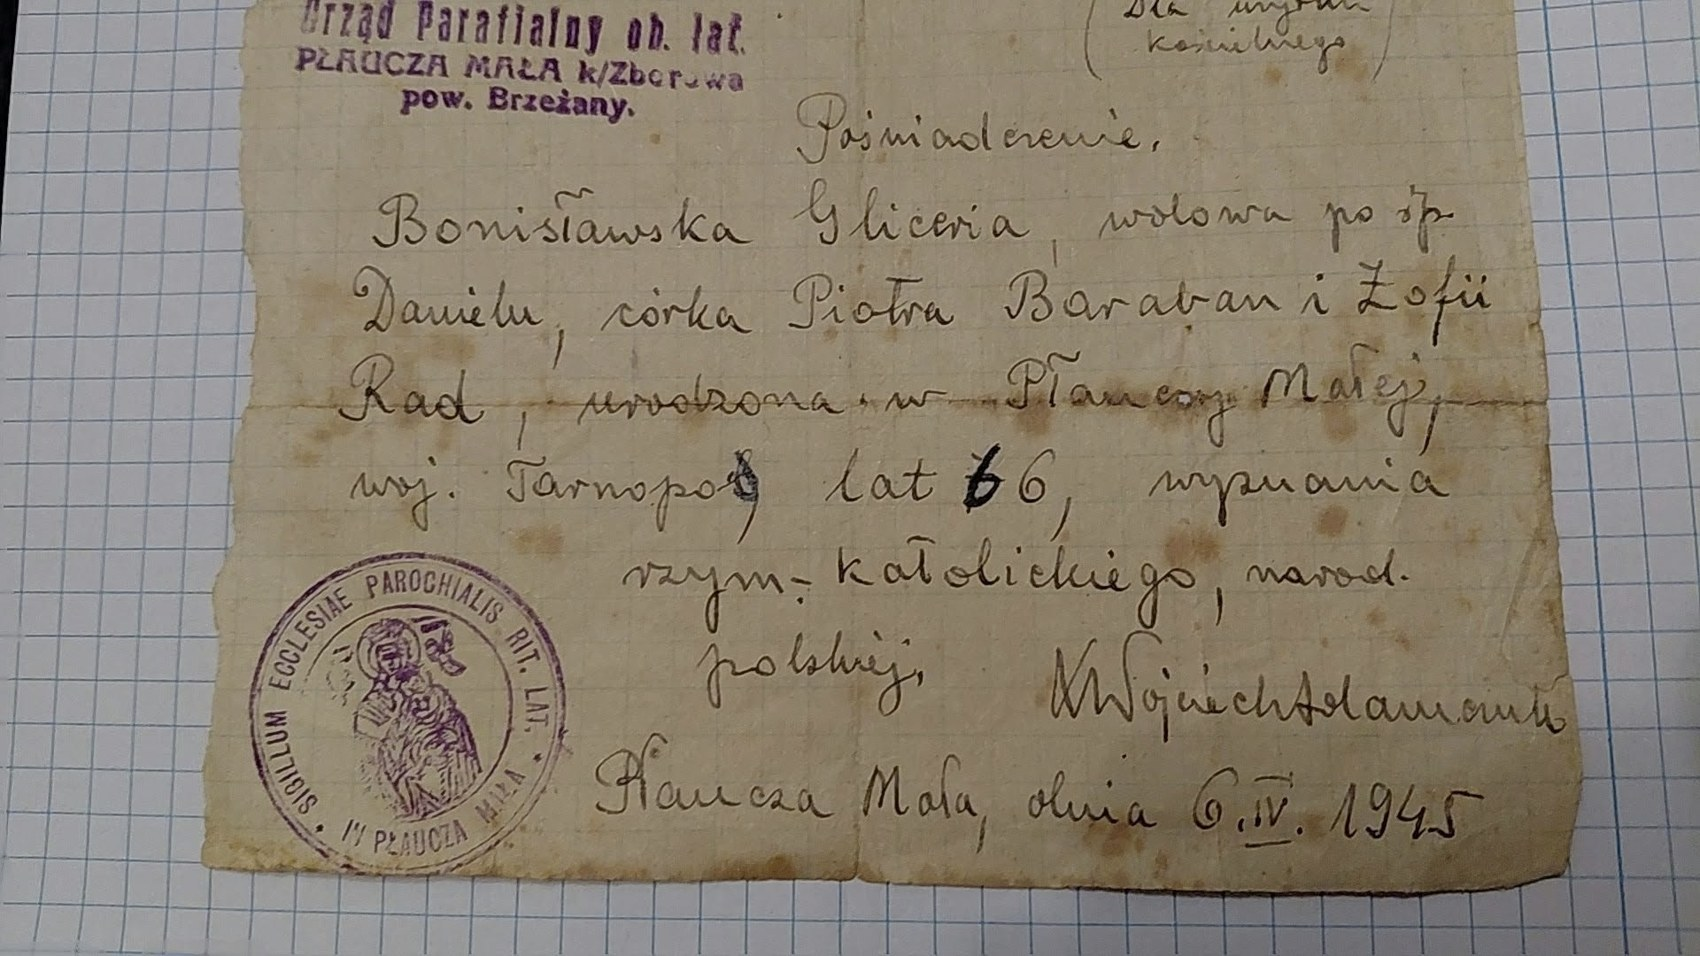
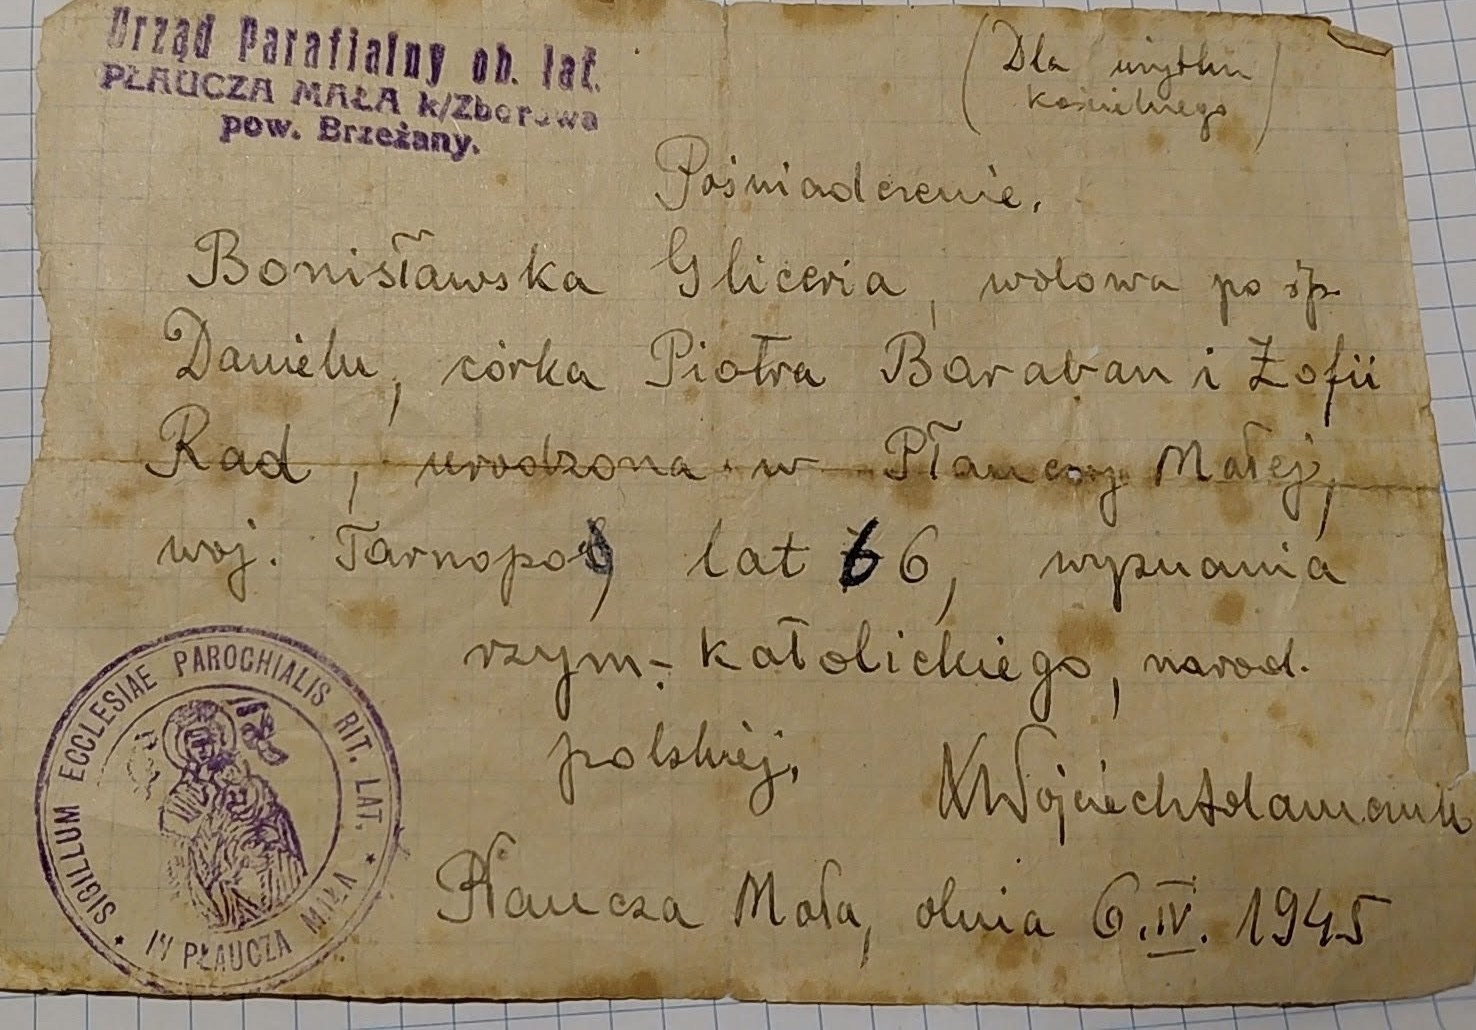
Agnieszka i Michał: nowy skan poświadczenia, podpisy koloryzacji
Claude-Session: https://claude.ai/code/session_01MVSwCffncwZpnsp3xC5Tny

diff --git a/agnieszka-i-michal.html b/agnieszka-i-michal.html
@@ -7,8 +7,8 @@
     <h1>Agnieszka i Michał</h1>
     
   </header>
-  <section class="pair" aria-label="Agnieszka i Michał"><article class="person"><figure><button class="zoom" type="button" data-cap="Agnieszka Bonisławska" data-src="Zbiory rodzinne" aria-label="Powiększ zdjęcie: Agnieszka Bonisławska"><div class="portrait"><img src="zdjecia/agnieszka-bonislawska-portret.jpg" alt="Agnieszka Bonisławska"></div></button><figcaption><strong>Agnieszka Bonisławska</strong><span>1923–2017</span></figcaption></figure><dl class="facts"><dt>Urodzona</dt><dd><span class="sym">*</span>22.01.1923, Płaucza Mała</dd><dt>Zmarła</dt><dd><span class="sym">†</span>3.07.2017, Wierzbica Górna</dd><dt>Ślub</dt><dd>Michał Bonisławski</dd><dt>Wiek</dt><dd>94 lata</dd><dt>Ojciec</dt><dd><a href="eustachy-i-maria.html">Eustachy Bonisławski</a></dd><dt>Matka</dt><dd><a href="eustachy-i-maria.html">Maria z d. Murzyńska</a></dd></dl></article><article class="person"><figure class="noportrait"><figcaption><strong>Michał Bonisławski</strong><span>1912–1998</span></figcaption></figure><dl class="facts"><dt>Urodzony</dt><dd><span class="sym">*</span>17.09.1912, Płaucza Mała</dd><dt>Zmarł</dt><dd><span class="sym">†</span>28.08.1998, Wierzbica Górna</dd><dt>Ślub</dt><dd>Agnieszka Bonisławska</dd><dt>Wiek</dt><dd>85 lat</dd><dt>Ojciec</dt><dd>Daniel Bonisławski</dd><dt>Matka</dt><dd>Gliceria z d. Baraban</dd></dl><p class="factnote">Michał nosił to samo nazwisko co żona, ale pochodził z innej linii przodków.</p></article></section>
-  <section class="chapter"><h2>Agnieszka i Michał</h2><article class="story"><h3>Rodzina</h3><p>Agnieszka i Michał Bonisławscy urodzili się w Płauczy Małej, a zmarli w Wierzbicy Górnej. Agnieszka żyła 94 lata, a Michał 85. Nie mieli dzieci.</p><figure class="inline"><button class="zoom" type="button" data-cap="Agnieszka i Michał Bonisławscy." data-src="Zbiory rodzinne" aria-label="Powiększ: Agnieszka i Michał Bonisławscy."><img src="zdjecia/agnieszka-i-michal-bonislawscy.jpg" alt="Agnieszka i Michał Bonisławscy." loading="lazy" class=""></button><figcaption class="cap">Agnieszka i Michał Bonisławscy.<span class="src">Zbiory rodzinne</span></figcaption></figure></article><article class="story"><h3>Matka Michała</h3><p>Ojcem Michała był Daniel Bonisławski, a matką Gliceria z domu Baraban. Gliceria, wdowa po Danielu, córka Piotra Baraban i Zofii Rad, była Ukrainką. Zaświadczenie parafialne z Płauczy Małej z 6 kwietnia 1945 roku wpisuje ją jako osobę wyznania rzymskokatolickiego i narodowości polskiej. Dzięki temu dokumentowi mogła po wojnie wyjechać z Ukrainy.</p><figure class="inline wide"><button class="zoom" type="button" data-cap="Poświadczenie Urzędu Parafialnego obrządku łacińskiego w Płauczy Małej k. Zborowa, powiat Brzeżany, z 6 IV 1945 r.: Gliceria Bonisławska, wdowa po Danielu, córka Piotra Baraban i Zofii Rad, urodzona w Płauczy Małej, woj. Tarnopol, wyznania rzymskokatolickiego, narodowości polskiej. Wiek zapisany jako 66 lat (pierwsza cyfra jest poprawiana). Podpis księdza nieczytelny." data-src="Zbiory rodzinne" aria-label="Powiększ: Poświadczenie Urzędu Parafialnego obrządku łacińskiego w Płauczy Małej k. Zborowa, powiat Brzeżany, z 6 IV 1945 r.: Gliceria Bonisławska, wdowa po Danielu, córka Piotra Baraban i Zofii Rad, urodzona w Płauczy Małej, woj. Tarnopol, wyznania rzymskokatolickiego, narodowości polskiej. Wiek zapisany jako 66 lat (pierwsza cyfra jest poprawiana). Podpis księdza nieczytelny."><img src="skany/gliceria-bonislawska-poswiadczenie-1945.jpg" alt="Poświadczenie Urzędu Parafialnego obrządku łacińskiego w Płauczy Małej k. Zborowa, powiat Brzeżany, z 6 IV 1945 r.: Gliceria Bonisławska, wdowa po Danielu, córka Piotra Baraban i Zofii Rad, urodzona w Płauczy Małej, woj. Tarnopol, wyznania rzymskokatolickiego, narodowości polskiej. Wiek zapisany jako 66 lat (pierwsza cyfra jest poprawiana). Podpis księdza nieczytelny." loading="lazy" class=""></button><figcaption class="cap">Poświadczenie Urzędu Parafialnego obrządku łacińskiego w Płauczy Małej k. Zborowa, powiat Brzeżany, z 6 IV 1945 r.: Gliceria Bonisławska, wdowa po Danielu, córka Piotra Baraban i Zofii Rad, urodzona w Płauczy Małej, woj. Tarnopol, wyznania rzymskokatolickiego, narodowości polskiej. Wiek zapisany jako 66 lat (pierwsza cyfra jest poprawiana). Podpis księdza nieczytelny.<span class="src">Zbiory rodzinne</span></figcaption></figure></article></section>
+  <section class="pair" aria-label="Agnieszka i Michał"><article class="person"><figure><button class="zoom" type="button" data-cap="Agnieszka Bonisławska. Koloryzacja zdjęcia" data-src="Zbiory rodzinne. Koloryzacja cyfrowa" aria-label="Powiększ zdjęcie: Agnieszka Bonisławska"><div class="portrait"><img src="zdjecia/agnieszka-bonislawska-portret.jpg" alt="Agnieszka Bonisławska. Koloryzacja zdjęcia"></div></button><figcaption><strong>Agnieszka Bonisławska</strong><span>1923–2017</span></figcaption></figure><dl class="facts"><dt>Urodzona</dt><dd><span class="sym">*</span>22.01.1923, Płaucza Mała</dd><dt>Zmarła</dt><dd><span class="sym">†</span>3.07.2017, Wierzbica Górna</dd><dt>Ślub</dt><dd>Michał Bonisławski</dd><dt>Wiek</dt><dd>94 lata</dd><dt>Ojciec</dt><dd><a href="eustachy-i-maria.html">Eustachy Bonisławski</a></dd><dt>Matka</dt><dd><a href="eustachy-i-maria.html">Maria z d. Murzyńska</a></dd></dl></article><article class="person"><figure class="noportrait"><figcaption><strong>Michał Bonisławski</strong><span>1912–1998</span></figcaption></figure><dl class="facts"><dt>Urodzony</dt><dd><span class="sym">*</span>17.09.1912, Płaucza Mała</dd><dt>Zmarł</dt><dd><span class="sym">†</span>28.08.1998, Wierzbica Górna</dd><dt>Ślub</dt><dd>Agnieszka Bonisławska</dd><dt>Wiek</dt><dd>85 lat</dd><dt>Ojciec</dt><dd>Daniel Bonisławski</dd><dt>Matka</dt><dd>Gliceria z d. Baraban</dd></dl><p class="factnote">Michał nosił to samo nazwisko co żona, ale pochodził z innej linii przodków.</p></article></section>
+  <section class="chapter"><h2>Agnieszka i Michał</h2><article class="story"><h3>Rodzina</h3><p>Agnieszka i Michał Bonisławscy urodzili się w Płauczy Małej, a zmarli w Wierzbicy Górnej. Agnieszka żyła 94 lata, a Michał 85. Nie mieli dzieci.</p><figure class="inline"><button class="zoom" type="button" data-cap="Agnieszka i Michał Bonisławscy. Koloryzacja zdjęcia" data-src="Zbiory rodzinne. Koloryzacja cyfrowa" aria-label="Powiększ: Agnieszka i Michał Bonisławscy. Koloryzacja zdjęcia"><img src="zdjecia/agnieszka-i-michal-bonislawscy.jpg" alt="Agnieszka i Michał Bonisławscy. Koloryzacja zdjęcia" loading="lazy" class=""></button><figcaption class="cap">Agnieszka i Michał Bonisławscy. Koloryzacja zdjęcia<span class="src">Zbiory rodzinne. Koloryzacja cyfrowa</span></figcaption></figure></article><article class="story"><h3>Matka Michała</h3><p>Ojcem Michała był Daniel Bonisławski, a matką Gliceria z domu Baraban. Gliceria, wdowa po Danielu, córka Piotra Baraban i Zofii Rad, była Ukrainką. Zaświadczenie parafialne z Płauczy Małej z 6 kwietnia 1945 roku wpisuje ją jako osobę wyznania rzymskokatolickiego i narodowości polskiej. Dzięki temu dokumentowi mogła po wojnie wyjechać z Ukrainy.</p><figure class="inline wide"><button class="zoom" type="button" data-cap="Poświadczenie Urzędu Parafialnego obrządku łacińskiego w Płauczy Małej k. Zborowa, powiat Brzeżany, z 6 IV 1945 r. (u góry dopisek „Dla użytku kościelnego”, odczyt niepewny): Gliceria Bonisławska, wdowa po Danielu, córka Piotra Baraban i Zofii Rad, urodzona w Płauczy Małej, woj. Tarnopol, wyznania rzymskokatolickiego, narodowości polskiej. Wiek zapisany jako 66 lat (pierwsza cyfra jest poprawiana). Podpis księdza nieczytelny. Pieczęć parafii w Płauczy Małej." data-src="Zbiory rodzinne" aria-label="Powiększ: Poświadczenie Urzędu Parafialnego obrządku łacińskiego w Płauczy Małej k. Zborowa, powiat Brzeżany, z 6 IV 1945 r. (u góry dopisek „Dla użytku kościelnego”, odczyt niepewny): Gliceria Bonisławska, wdowa po Danielu, córka Piotra Baraban i Zofii Rad, urodzona w Płauczy Małej, woj. Tarnopol, wyznania rzymskokatolickiego, narodowości polskiej. Wiek zapisany jako 66 lat (pierwsza cyfra jest poprawiana). Podpis księdza nieczytelny. Pieczęć parafii w Płauczy Małej."><img src="skany/gliceria-bonislawska-poswiadczenie-1945.jpg" alt="Poświadczenie Urzędu Parafialnego obrządku łacińskiego w Płauczy Małej k. Zborowa, powiat Brzeżany, z 6 IV 1945 r. (u góry dopisek „Dla użytku kościelnego”, odczyt niepewny): Gliceria Bonisławska, wdowa po Danielu, córka Piotra Baraban i Zofii Rad, urodzona w Płauczy Małej, woj. Tarnopol, wyznania rzymskokatolickiego, narodowości polskiej. Wiek zapisany jako 66 lat (pierwsza cyfra jest poprawiana). Podpis księdza nieczytelny. Pieczęć parafii w Płauczy Małej." loading="lazy" class=""></button><figcaption class="cap">Poświadczenie Urzędu Parafialnego obrządku łacińskiego w Płauczy Małej k. Zborowa, powiat Brzeżany, z 6 IV 1945 r. (u góry dopisek „Dla użytku kościelnego”, odczyt niepewny): Gliceria Bonisławska, wdowa po Danielu, córka Piotra Baraban i Zofii Rad, urodzona w Płauczy Małej, woj. Tarnopol, wyznania rzymskokatolickiego, narodowości polskiej. Wiek zapisany jako 66 lat (pierwsza cyfra jest poprawiana). Podpis księdza nieczytelny. Pieczęć parafii w Płauczy Małej.<span class="src">Zbiory rodzinne</span></figcaption></figure></article></section>
   
   <section class="chapter"><h2>Dalej w drzewie</h2><div class="next"><a href="eustachy-i-maria.html"><span class="label">Rodzice: Agnieszka Bonisławska</span><strong>Maria i Eustachy</strong></a><span class="none"><span class="label">Rodzice: Michał Bonisławski</span>Daniel Bonisławski i Gliceria z d. Baraban</span></div></section>
   <footer><span>Drzewo genealogiczne Bonisławskich</span><a href="index.html">Strona główna</a></footer>
